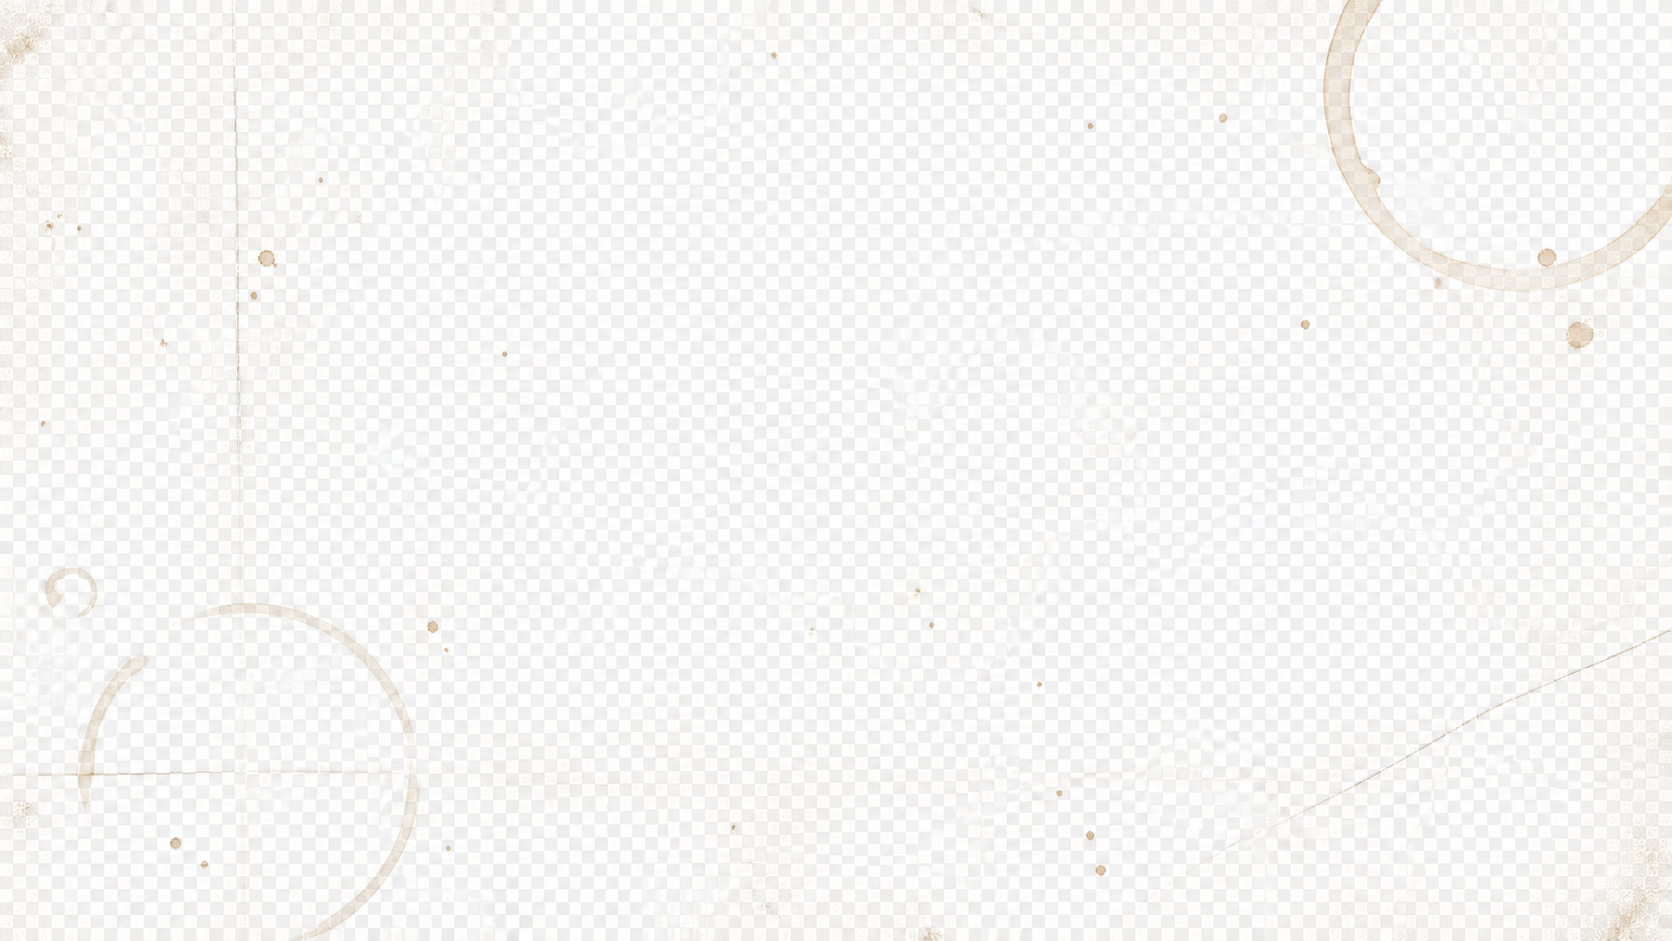
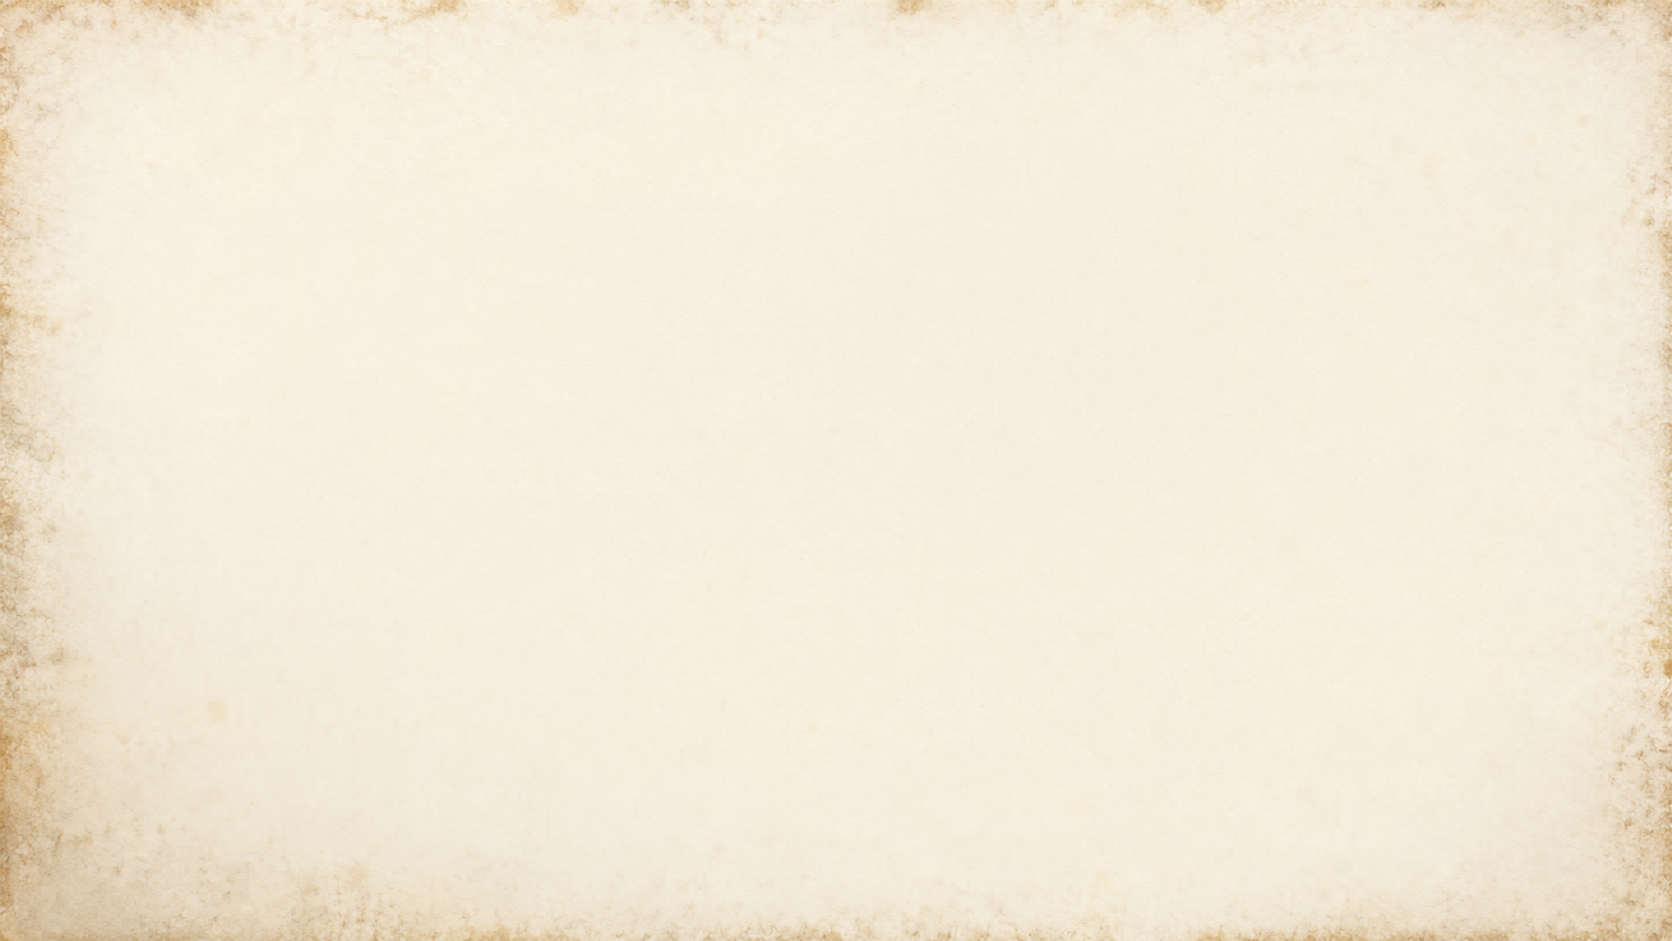
fix(paper): swap checkered bg for clean parchment; paper-on-paper rounded board panel lifted over outer parchment surface

diff --git a/components/board/BoardRoot.module.css b/components/board/BoardRoot.module.css
@@ -94,15 +94,30 @@
   overflow: hidden;
 }
 
-/* Paper-atelier: a FIXED, cover-sized real-parchment backdrop on the viewport
-   frame. Because .canvasWrap is the still frame (the camera scrolls INSIDE it),
-   this image never scrolls — the cards travel over it for a strong depth read,
-   and the parchment's baked coffee-rings/specks sit in the background. The cream
-   base-color is the graceful fallback if the image is ever missing. Paper-only;
-   default themes never define --asset-parchment-bg, so this is a no-op there. */
-:global(html[data-theme-id='paper-atelier']) .canvasWrap {
+/* Paper-atelier "paper on paper": the board .canvas is a rounded parchment
+   PANEL lifted off an outer parchment surface (.outerFrame). The panel image is
+   FIXED/cover (the camera scrolls inside it) so cards travel OVER a still
+   parchment = strong depth. .canvas already has overflow:hidden + the
+   --canvas-radius (set to a paper value in globals), so the rounded corners clip
+   the cards too — no more sharp-cornered board. Cream base = graceful fallback.
+   Paper-only; default themes never define --asset-parchment-bg → no-op there. */
+:global(html[data-theme-id='paper-atelier']) .canvas {
   background-color: var(--bg-dark, #efe6d2);
   background-image: var(--asset-parchment-bg, none);
+  background-size: cover;
+  background-position: center;
+  background-repeat: no-repeat;
+  /* lift the paper panel off the outer parchment surface */
+  box-shadow:
+    0 2px 6px rgba(43, 39, 34, 0.16),
+    0 14px 36px rgba(43, 39, 34, 0.20);
+}
+
+/* Outer surface = a second, larger parchment so the panel reads as paper resting
+   ON paper. */
+:global(html[data-theme-id='paper-atelier']) .outerFrame {
+  background-color: var(--bg-outer, #e9dfc8);
+  background-image: var(--asset-parchment-outer, none);
   background-size: cover;
   background-position: center;
   background-repeat: no-repeat;

diff --git a/app/globals.paper-bg.test.ts b/app/globals.paper-bg.test.ts
@@ -17,13 +17,14 @@ describe('paper background asset wiring', () => {
     expect(beforePaper).not.toContain('--asset-parchment-bg')
   })
 
-  it('the real parchment is a FIXED cover backdrop on .canvasWrap (paper-scoped)', () => {
-    // session 133: the parchment image is a still viewport backdrop (cards scroll
-    // over it for depth), not a tiled content layer. Wired paper-scoped with a
-    // var fallback so default themes are a no-op.
+  it('paper-on-paper: parchment panel on .canvas (rounded+lifted) over .outerFrame parchment', () => {
+    // session 133: the board .canvas is a rounded parchment PANEL (cover, fixed)
+    // lifted off an outer parchment surface (.outerFrame). Both paper-scoped with
+    // var fallbacks so default themes are a no-op.
     const block = boardRoot.slice(boardRoot.indexOf("data-theme-id='paper-atelier'"))
-    expect(block).toContain('.canvasWrap')
+    expect(block).toContain('.canvas')
     expect(block).toMatch(/background-image:\s*var\(--asset-parchment-bg, none\)/)
-    expect(block).toContain('background-size: cover')
+    expect(block).toMatch(/background-image:\s*var\(--asset-parchment-outer, none\)/)
+    expect(block).toContain('box-shadow')
   })
 })

diff --git a/app/globals.css b/app/globals.css
@@ -478,6 +478,12 @@ html[data-theme-id="paper-atelier"] {
      parallax = strong depth), and the baked coffee-rings/specks read as
      background objects. Paper-only; default theme never sees it. */
   --asset-parchment-bg: url("/themes/paper-atelier/parchment-bg.png");
+  /* outer surface parchment (a second sheet under the board panel → paper on
+     paper). Applied to .outerFrame cover. */
+  --asset-parchment-outer: url("/themes/paper-atelier/parchment-outer.png");
+  /* round the board panel into a paper sheet (default theme = 0px sharp). The
+     panel's overflow:hidden clips the cards to these rounded corners too. */
+  --canvas-radius: 14px;
 
   /* The parchment "photo window" inset (top right bottom left). The card mat
      frames a window here; the static photo (.paperPhoto) AND the live playback

diff --git a/lib/board/paper-assets.ts b/lib/board/paper-assets.ts
@@ -28,13 +28,13 @@ export type PaperAssetId =
   | 'icon-star' | 'icon-heart' | 'icon-check' | 'icon-x' | 'icon-excl' | 'icon-question'
   | 'icon-search' | 'icon-bookmark' | 'icon-camera' | 'icon-envelope' | 'icon-eye' | 'icon-flag'
   | 'wax-seal-gold-a' | 'wax-seal-red'
-  | 'parchment-bg-plain' | 'parchment-bg-frame'
+  | 'parchment-bg-plain' | 'parchment-bg-frame' | 'parchment-outer'
 
 /** `true` = the PNG is committed and usable. `false` = not placed yet; the
  *  consuming face must degrade to its CSS/SVG fallback. */
 export const PAPER_ASSETS: Readonly<Record<PaperAssetId, boolean>> = {
   'parchment-bg': true, // real aged-parchment backdrop (sheet 13_27, with coffee rings/specks)
-  'parchment-bg-plain': true, 'parchment-bg-frame': true,
+  'parchment-bg-plain': true, 'parchment-bg-frame': true, 'parchment-outer': true,
   'card-mat-1': true, 'card-mat-2': true, 'card-mat-3': true, 'card-mat-aged': true,
   'washi-tape-1': true, 'washi-tape-2': true, 'washi-tape-3': true,
   'washi-tape-4': true, 'washi-tape-5': true,